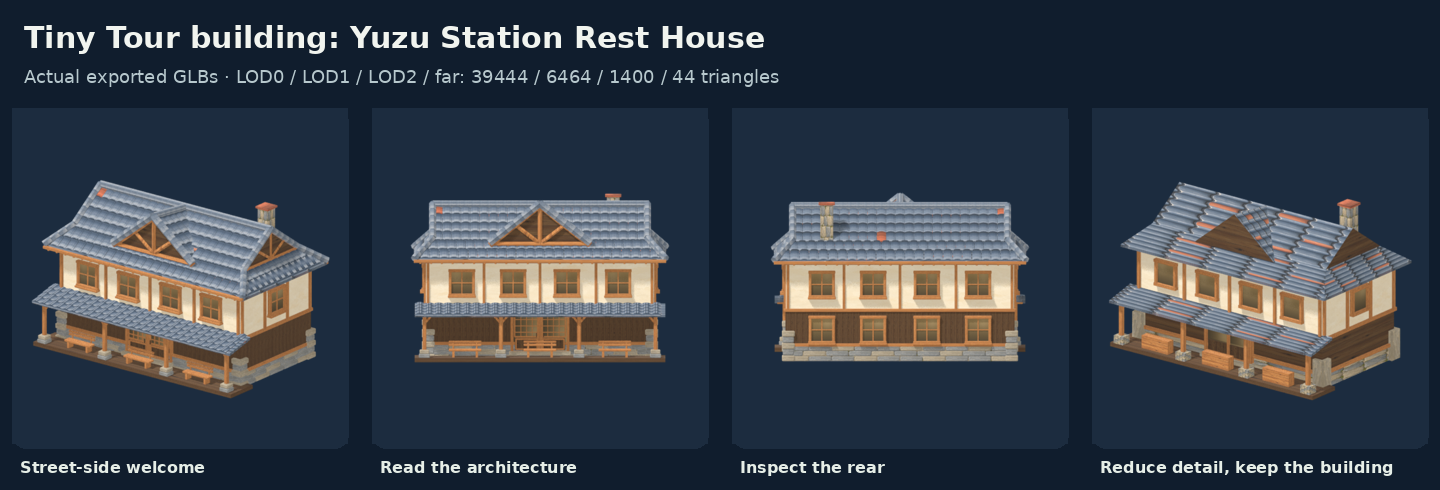
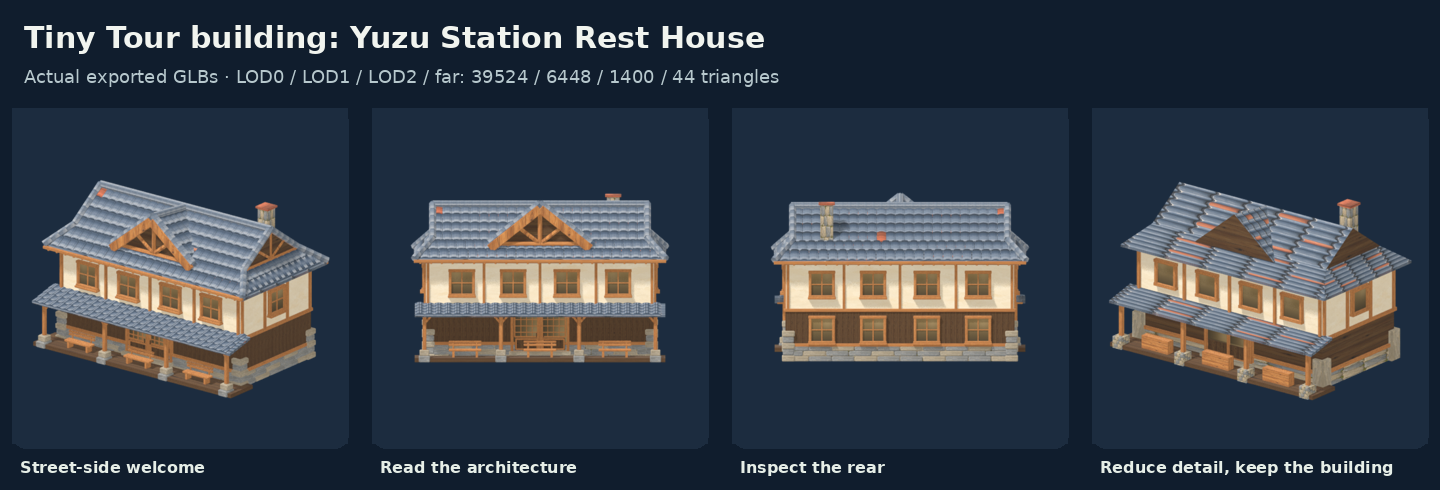
Ground rest house stonework and expose gable timbers

diff --git a/lowpoly_workshop/assets/examples/station-rest-house/gen.py b/lowpoly_workshop/assets/examples/station-rest-house/gen.py
@@ -132,17 +132,19 @@ def build(p):
   for x in [-7.1,-2.4,2.4,7.1]:
    top=3.01975609756;base=.72
    box('terrace_post'+str(x),[x,(top+base)/2,Z_WALL+1.5],[.12,(top-base)/2,.12],bevel=.035 if lod==0 else 0)
+   # The lower block reaches ground and projects beyond the terrace front,
+   # so the wooden deck cannot visually hide its foot.
    if lod<2:
-    for row in range(2):
-     box('post_plinth'+str((x,row)),[x,.26+(row+.5)*.25,Z_WALL+1.5],[.34 if row==0 else .30,.12,.33 if row==0 else .30],'stonegrain' if row==0 else 'lightstone',bevel=.045 if lod==0 else 0)
-   else:box('post_plinth'+str(x),[x,.51,Z_WALL+1.5],[.34,.25,.33],'stone')
+    box('post_plinth'+str((x,0)),[x,.19,Z_WALL+1.55],[.34,.19,.40],'stonegrain',bevel=.045 if lod==0 else 0)
+    box('post_plinth'+str((x,1)),[x,.565,Z_WALL+1.50],[.30,.175,.30],'lightstone',bevel=.045 if lod==0 else 0)
+   else:box('post_plinth'+str(x),[x,.37,Z_WALL+1.55],[.34,.37,.40],'stone')
   # Projecting corner stones wrap both faces and climb above the low stone skirt.
   for sx in [-1,1]:
    for sz in [-1,1]:
     rows=5 if lod==0 else 3 if lod==1 else 1
     for row in range(rows):
      height=1.90/rows;spread=.40 if row%2==0 else .35
-     box('corner_stone'+str((sx,sz,row)),[sx*6.86,(row+.5)*height,sz*(Z_WALL-.14)],[spread,height/2-.014,spread],'lightstone' if row%2==0 else 'stonegrain',bevel=.055 if lod==0 else 0)
+     box('corner_stone'+str((sx,sz,row)),[sx*6.86,(row+.5)*height-(.007 if row==0 else 0),sz*(Z_WALL-.14)],[spread,height/2-(.007 if row==0 else .014),spread],'lightstone' if row%2==0 else 'stonegrain',bevel=.055 if lod==0 else 0)
   for i,x in enumerate([-4.6,0,4.6]):bench('bench'+str(i),x)
   for face in ['front','back']:
    for i,x in enumerate([-4.8,-1.65,1.65,4.8]):window(face+str(i),face,x,4.75,1.3,1.35,Z_WALL)
@@ -180,8 +182,8 @@ def build(p):
      cuts=np.linspace(-span/2,span/2,cols+1)+(step*.25 if row%2 else 0);cuts[0]=-span/2;cuts[-1]=span/2
      for j,(a,b) in enumerate(zip(cuts[:-1],cuts[1:])):
       if b-a<.12:continue
-      c=n*(wall+.02)+u*(a+b)/2+[0,(row+.5)*.96/rows,0]
-      box('stone_'+face+str((row,j)),c,[(b-a)/2-.018,.96/rows/2-.014,.13],'lightstone' if (row+j)%3==0 else 'stonegrain',axes,.045 if lod==0 else 0)
+      c=n*(wall+.02)+u*(a+b)/2+[0,(row+.5)*.96/rows-(.007 if row==0 else 0),0]
+      box('stone_'+face+str((row,j)),c,[(b-a)/2-.018,.96/rows/2-(.007 if row==0 else .014),.13],'lightstone' if (row+j)%3==0 else 'stonegrain',axes,.045 if lod==0 else 0)
     for j,x in enumerate(np.linspace(-span/2+.15,span/2-.15,round(span/.35))):
      if face=='front' and abs(x)<1.85:continue
      box('board_'+face+str(j),n*(wall+.015)+u*x+[0,2.02,0],[.155,1.0,.025],'dark',axes)
@@ -190,7 +192,11 @@ def build(p):
   if lod<2:
    # Timber construction reads at street distance, including eaves, gable braces and terrace brackets.
    for side in [-1,1]:
-    beam('gable_barge'+str(side),[0,GABLE_PEAK,Z_GABLE+.11],[side*(GABLE_HALF+.08),GABLE_BASE-.06,Z_GABLE+.11],.20,n=6)
+    # The reference has broad flat timber bargeboards under the ceramic verge.
+    # Put the face forward and below the cap: a round beam behind the cap was hidden.
+    start=np.array([0,GABLE_PEAK-.20,Z_GABLE+.35]);end=np.array([side*(GABLE_HALF+.08),GABLE_BASE-.26,Z_GABLE+.35])
+    direction=(end-start)/np.linalg.norm(end-start);perpendicular=np.array([-direction[1],direction[0],0])
+    box('gable_barge'+str(side),(start+end)/2,[np.linalg.norm(end-start)/2,.27,.11],'wood',[direction,perpendicular,[0,0,1]],.025 if lod==0 else 0)
     beam('gable_brace'+str(side),[side*.12,GABLE_BASE+.12,Z_GABLE+.12],[side*1.45,GABLE_PEAK-(GABLE_PEAK-GABLE_BASE)*1.45/GABLE_HALF-.10,Z_GABLE+.12],.12)
     # These real side gables are the prominent timber triangles in the reference profile.
     gx=side*(HIP_X+.035)
@@ -263,7 +269,18 @@ def build(p):
   span=np.ptp(q,axis=0);axes=np.argsort(span)[-2:];a,b=int(axes[0]),int(axes[1])
   if cell in ['wood','dark'] and span[1]>.001:
    b=1 if span[1]>=max(span[0],span[2])*.5 else int(np.argmax(span));a=max((j for j in range(3) if j!=b),key=lambda j:span[j])
-  lo=q.min(0);uv=np.column_stack([(q[:,a]-lo[a])/max(span[a],1e-9),(q[:,b]-lo[b])/max(span[b],1e-9)])
+  lo=q.min(0)
+  def projection(x,y):
+   u=np.column_stack([(q[:,x]-lo[x])/max(span[x],1e-9),(q[:,y]-lo[y])/max(span[y],1e-9)])
+   area=abs(np.sum(u[:,0]*np.roll(u[:,1],-1)-u[:,1]*np.roll(u[:,0],-1)))
+   return u,area
+  uv,area=projection(a,b)
+  if area<1e-8:
+   # A sloping narrow face may span X and Y while those coordinates are
+   # collinear. Choose the non-collapsed planar projection instead.
+   candidates=[(projection(x,y)[1],x,y) for x,y in [(0,1),(0,2),(1,2)]]
+   _,a,b=max(candidates)
+   uv,_=projection(a,b)
   m.faces[i]=(q,cell,uv,thin)
  root=CFG['model']+('_far' if lod==3 else '_LOD'+str(lod));SHELLS[lod]=solids;FEATURES[lod]=features
  return {root:{'parent':None,'pivot':np.zeros(3),'faces':m.faces,'smooth':False}}

diff --git a/tests/test_building_example.py b/tests/test_building_example.py
@@ -36,6 +36,35 @@ class BuildingExampleTests(unittest.TestCase):
                 if name.startswith('bench') and '_leg' in name:
                     self.assertAlmostEqual(pts[:,1].min(),.26)
 
+    def test_grounded_stone_and_visible_gable_bargeboards(self):
+        a=Asset(EXAMPLE)
+        for lod in range(3):
+            nodes=a.build(str(lod));f=a.gen.FEATURES[lod]
+            from lowpoly_workshop.quality import uv_diagnostics
+            self.assertEqual(uv_diagnostics(nodes,a.gen.ATLAS),[])
+            terrace=np.concatenate([q for q,*_ in f['terrace']])
+            bases=[fs for n,fs in f.items() if n.startswith('post_plinth') and (lod==2 or n.endswith(', 0)'))]
+            self.assertEqual(len(bases),4)
+            for faces in bases:
+                pts=np.concatenate([q for q,*_ in faces])
+                self.assertAlmostEqual(float(pts[:,1].min()),0,places=7)
+                self.assertGreater(float(pts[:,2].max()),float(terrace[:,2].max())+.05)
+            corners=[fs for n,fs in f.items() if n.startswith('corner_stone') and n.endswith(', 0)')]
+            self.assertEqual(len(corners),4)
+            for faces in corners:self.assertAlmostEqual(float(np.concatenate([q for q,*_ in faces])[:,1].min()),0,places=7)
+            if lod<2:
+                for face in ['front','back','left','right']:
+                    stones=[fs for name,fs in f.items() if name.startswith('stone_'+face+'(0,') ]
+                    self.assertTrue(stones)
+                    for faces in stones:self.assertAlmostEqual(float(np.concatenate([q for q,*_ in faces])[:,1].min()),0,places=7)
+                for sign in [-1,1]:
+                    pts=np.concatenate([q for q,*_ in f['gable_barge'+str(sign)]])
+                    d=np.array([sign*(a.gen.GABLE_HALF+.08),a.gen.GABLE_BASE-a.gen.GABLE_PEAK-.06]);d/=np.linalg.norm(d)
+                    perpendicular=np.array([-d[1],d[0]])
+                    self.assertGreater(float(np.ptp(pts[:,:2]@perpendicular)),.50)
+                    caps=[q for name,fs in f.items() if name.startswith('front_verge_tile'+str(sign)) for q,*_ in fs]
+                    self.assertGreater(float(pts[:,2].max()),float(np.concatenate(caps)[:,2].max())+.01)
+
     def test_scale_origin_and_invalid_level(self):
         a=Asset(EXAMPLE)
         for lod in range(4):

diff --git a/docs/create-building.md b/docs/create-building.md
@@ -59,7 +59,7 @@ Edit geometry in `gen.py`, painted-region choices in `station_materials.py`, and
 
 ![New material artwork for the remodel: cedar, plaster, roof tiles and stone. This is surface texture art, separate from the historical building design sheet.](images/station-rest-house-materials.png)
 
-The entrance has **two separate door leaves**, each with its own timber panel, glazed upper lattice and frame. Paired handles and a central join make the split readable. Projecting stone courses wrap the house corners, and all four terrace posts stand on stone plinths. The gable struts rise outward from beside the foot of the centre post to form `\|/`. Separate raised ceramic caps follow the verges, hips and ridge; tile noses are thicker than their field surfaces. The cap and accent materials sample a single ceramic tile rather than repeating the complete roof drawing on every cap. The curved main-roof tile rows continue across the exposed apron below the front gable: its exclusion must stop at the actual gable front, rather than extrapolating across the street-side roof. Keep these construction details visible in clay before judging their materials.
+The entrance has **two separate door leaves**, each with its own timber panel, glazed upper lattice and frame. Paired handles and a central join make the split readable. Projecting stone courses wrap the house corners and reach ground level. All four terrace posts stand on stone plinths that extend to ground and project in front of the wooden terrace, keeping their feet visible. Broad, flat timber bargeboards sit beneath the ceramic gable edges. The gable struts rise outward from beside the foot of the centre post to form `\|/`. Separate raised ceramic caps follow the verges, hips and ridge; tile noses are thicker than their field surfaces. The cap and accent materials sample a single ceramic tile rather than repeating the complete roof drawing on every cap. The curved main-roof tile rows continue across the exposed apron below the front gable: its exclusion must stop at the actual gable front, rather than extrapolating across the street-side roof. Keep these construction details visible in clay before judging their materials.
 
 ![Original and actual-export close-ups of the gable, roof edges, paired doors and stone supports.](images/station-rest-house-details.png)
 
@@ -67,8 +67,8 @@ The entrance has **two separate door leaves**, each with its own timber panel, g
 
 | Level | Triangles | Treatment |
 |---|---:|---|
-| LOD0 | 39,444 | Curved closed tile strips/caps, bevelled stone/timber, framed glazing, braces and slatted benches |
-| LOD1 | 6,464 | Painted roof with segmented caps, masonry, framing and simplified joinery |
+| LOD0 | 39,524 | Curved closed tile strips/caps, bevelled stone/timber, framed glazing, braces and slatted benches |
+| LOD1 | 6,448 | Painted roof with segmented caps, masonry, framing and simplified joinery |
 | LOD2 | 1,400 | Painted architectural masses, window surrounds, timber belts, terrace and bench proxies |
 | Far | 44 | Roof and wall silhouette; furniture, openings and terrace omitted |
 

diff --git a/lowpoly_workshop/references/create-building.md b/lowpoly_workshop/references/create-building.md
@@ -59,7 +59,7 @@ Edit geometry in `gen.py`, painted-region choices in `station_materials.py`, and
 
 ![New material artwork for the remodel: cedar, plaster, roof tiles and stone. This is surface texture art, separate from the historical building design sheet.](images/station-rest-house-materials.png)
 
-The entrance has **two separate door leaves**, each with its own timber panel, glazed upper lattice and frame. Paired handles and a central join make the split readable. Projecting stone courses wrap the house corners, and all four terrace posts stand on stone plinths. The gable struts rise outward from beside the foot of the centre post to form `\|/`. Separate raised ceramic caps follow the verges, hips and ridge; tile noses are thicker than their field surfaces. The cap and accent materials sample a single ceramic tile rather than repeating the complete roof drawing on every cap. The curved main-roof tile rows continue across the exposed apron below the front gable: its exclusion must stop at the actual gable front, rather than extrapolating across the street-side roof. Keep these construction details visible in clay before judging their materials.
+The entrance has **two separate door leaves**, each with its own timber panel, glazed upper lattice and frame. Paired handles and a central join make the split readable. Projecting stone courses wrap the house corners and reach ground level. All four terrace posts stand on stone plinths that extend to ground and project in front of the wooden terrace, keeping their feet visible. Broad, flat timber bargeboards sit beneath the ceramic gable edges. The gable struts rise outward from beside the foot of the centre post to form `\|/`. Separate raised ceramic caps follow the verges, hips and ridge; tile noses are thicker than their field surfaces. The cap and accent materials sample a single ceramic tile rather than repeating the complete roof drawing on every cap. The curved main-roof tile rows continue across the exposed apron below the front gable: its exclusion must stop at the actual gable front, rather than extrapolating across the street-side roof. Keep these construction details visible in clay before judging their materials.
 
 ![Original and actual-export close-ups of the gable, roof edges, paired doors and stone supports.](images/station-rest-house-details.png)
 
@@ -67,8 +67,8 @@ The entrance has **two separate door leaves**, each with its own timber panel, g
 
 | Level | Triangles | Treatment |
 |---|---:|---|
-| LOD0 | 39,444 | Curved closed tile strips/caps, bevelled stone/timber, framed glazing, braces and slatted benches |
-| LOD1 | 6,464 | Painted roof with segmented caps, masonry, framing and simplified joinery |
+| LOD0 | 39,524 | Curved closed tile strips/caps, bevelled stone/timber, framed glazing, braces and slatted benches |
+| LOD1 | 6,448 | Painted roof with segmented caps, masonry, framing and simplified joinery |
 | LOD2 | 1,400 | Painted architectural masses, window surrounds, timber belts, terrace and bench proxies |
 | Far | 44 | Roof and wall silhouette; furniture, openings and terrace omitted |
 

diff --git a/skills/lowpoly-workshop/references/create-building.md b/skills/lowpoly-workshop/references/create-building.md
@@ -59,7 +59,7 @@ Edit geometry in `gen.py`, painted-region choices in `station_materials.py`, and
 
 ![New material artwork for the remodel: cedar, plaster, roof tiles and stone. This is surface texture art, separate from the historical building design sheet.](images/station-rest-house-materials.png)
 
-The entrance has **two separate door leaves**, each with its own timber panel, glazed upper lattice and frame. Paired handles and a central join make the split readable. Projecting stone courses wrap the house corners, and all four terrace posts stand on stone plinths. The gable struts rise outward from beside the foot of the centre post to form `\|/`. Separate raised ceramic caps follow the verges, hips and ridge; tile noses are thicker than their field surfaces. The cap and accent materials sample a single ceramic tile rather than repeating the complete roof drawing on every cap. The curved main-roof tile rows continue across the exposed apron below the front gable: its exclusion must stop at the actual gable front, rather than extrapolating across the street-side roof. Keep these construction details visible in clay before judging their materials.
+The entrance has **two separate door leaves**, each with its own timber panel, glazed upper lattice and frame. Paired handles and a central join make the split readable. Projecting stone courses wrap the house corners and reach ground level. All four terrace posts stand on stone plinths that extend to ground and project in front of the wooden terrace, keeping their feet visible. Broad, flat timber bargeboards sit beneath the ceramic gable edges. The gable struts rise outward from beside the foot of the centre post to form `\|/`. Separate raised ceramic caps follow the verges, hips and ridge; tile noses are thicker than their field surfaces. The cap and accent materials sample a single ceramic tile rather than repeating the complete roof drawing on every cap. The curved main-roof tile rows continue across the exposed apron below the front gable: its exclusion must stop at the actual gable front, rather than extrapolating across the street-side roof. Keep these construction details visible in clay before judging their materials.
 
 ![Original and actual-export close-ups of the gable, roof edges, paired doors and stone supports.](images/station-rest-house-details.png)
 
@@ -67,8 +67,8 @@ The entrance has **two separate door leaves**, each with its own timber panel, g
 
 | Level | Triangles | Treatment |
 |---|---:|---|
-| LOD0 | 39,444 | Curved closed tile strips/caps, bevelled stone/timber, framed glazing, braces and slatted benches |
-| LOD1 | 6,464 | Painted roof with segmented caps, masonry, framing and simplified joinery |
+| LOD0 | 39,524 | Curved closed tile strips/caps, bevelled stone/timber, framed glazing, braces and slatted benches |
+| LOD1 | 6,448 | Painted roof with segmented caps, masonry, framing and simplified joinery |
 | LOD2 | 1,400 | Painted architectural masses, window surrounds, timber belts, terrace and bench proxies |
 | Far | 44 | Roof and wall silhouette; furniture, openings and terrace omitted |
 

diff --git a/VALIDATION.md b/VALIDATION.md
@@ -1,5 +1,11 @@
 # Validation
 
+## 2026-10-27 — visible gable boards and grounded stone bases
+
+- Broad flat bargeboards sit below and visibly in front of the ceramic gable edge. Corner stones, wall base courses and four post plinths reach the ground plane; the lower plinths extend beyond the terrace face. Focused checks guard those contacts and the sloping timber UV projection.
+- All 135 unit regressions, seven focused building tests, the full Blender selftest and 36 checks for each portable and game export pass. LOD counts are 39,524 / 6,448 / 1,400 / 44 triangles. The game asset passes 16 focused loader/package-model tests and validates in all three worlds.
+- The reference comparisons show actual exported meshes. A successful in-game screenshot or performance benchmark is not claimed; earlier world-viewer attempts stalled during texture loading.
+
 ## 2026-10-27 — entrance, stonework and roof joinery
 
 - The entrance has two framed leaves; projecting stone courses wrap the house corners and stone plinths support the terrace posts. Gable braces form `\|/`, raised ceramic caps follow roof edges, and the exposed tiled apron below the front gable is restored. The portable ceramic cap artwork samples one tile rather than the entire roof image.

diff --git a/lowpoly_workshop/assets/examples/station-rest-house/README.md b/lowpoly_workshop/assets/examples/station-rest-house/README.md
@@ -6,7 +6,7 @@ packed pixels are in `inputs/`. `provenance.json` records source hashes and the 
 
 Wall footprint 14 x 7 m, +Y up, +Z street, origin at ground-centred base. The model adds
 closed curved roof tiles and ridge caps, bevelled timber and stone, framed glazing,
-terrace braces and slatted benches. Detail levels: 39,444 / 6,464 / 1,400 / 44 triangles.
+terrace braces and slatted benches. Detail levels: 39,524 / 6,448 / 1,400 / 44 triangles.
 The nearer-level budget is intentionally increased; inspect performance in the intended game.
 
 Copy the folder into an empty workspace and run `lowpoly PATH all`, or use

diff --git a/CHANGELOG.md b/CHANGELOG.md
@@ -1,5 +1,8 @@
 # Changelog
 
+- 2026-10-27: The Station Rest House has broad visible timber gable boards and stone corner/terrace-post bases that reach ground; the lower plinths extend past the terrace face. Sloping board UVs now choose a non-collapsed face projection.
+
+
 - 2026-10-27: Station Rest House now has two separately framed entrance leaves, projecting coursed corner stones, stone terrace-post plinths, corrected rising gable struts and heavier ceramic verge/hip/ridge caps and tile noses. The exposed roof below the front gable keeps its raised tile rows.
 
 
